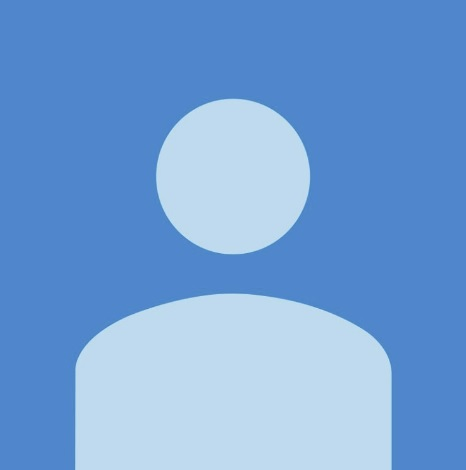
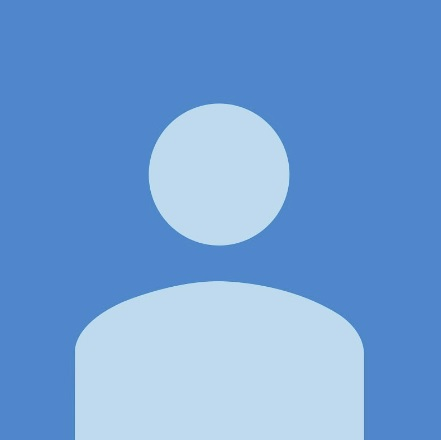
[2023.6.15 18:00] 서수현 마이페이지 사진이 안 보임

diff --git a/GC25 Project/src/main/java/com/gc25/controller/MemberController.java b/GC25 Project/src/main/java/com/gc25/controller/MemberController.java
@@ -276,12 +276,12 @@ public class MemberController extends HttpServlet {
 						session = request.getSession(); // 세션 가져오기
 						session.setMaxInactiveInterval(1800);//30분 세션유지
 						//회원번호 세션에 저장하기 위해 가져오기
-						String memberNumber = memberService.getMemberNumber(memberEmail);
+						int memberNumber = memberService.getMemberNumber(memberEmail);
 						//닉네임, 이메일 세션에 저장하기 위해 가져오기
 						MemberDTO member= memberService.getMember(memberEmail);
 						
 						memberNickname = member.getMemberNickname();
-						memberImageFileName = member.getMemberImageFileName();
+						memberImageFileName = memberService.getMemberImageFileName(memberImageFileName, memberEmail);
 						memberStatus = member.getMemberStatus();
 						
 						//세션에 저장
@@ -433,7 +433,8 @@ public class MemberController extends HttpServlet {
 				}
 				case "/mypage" -> { 
 					
-					PrintWriter script = response.getWriter();
+					int result = 0;
+					
 					PrintWriter out = response.getWriter();
 					String passwordReg = "^(?=.*[A-Za-z])(?=.*\\d)(?=.*[@!%*#?&])[A-Za-z\\d@!%*#?&]{8,12}$";
 					
@@ -444,79 +445,98 @@ public class MemberController extends HttpServlet {
 				    	memberEmail=(String)session.getAttribute("memberEmail");
 				    } else {
 				        // 로그인 되어있지 않은 경우
-						script.println("<script>");
-						script.println("alert('로그인을 해 주세요.')");
-						script.println("location.href='/views/login.jsp';");
-						script.println("</script>");
+				    	result=-100;
+				    	out.print(result);
+						return;
 				    }
 				    
 					//닉네임 중복 확인
-					
 				    session = request.getSession(); // 세션 가져오기
 					session.setMaxInactiveInterval(1800);//30분 세션유지
 				    //nickname 버튼 click 했다면 넘어오는 nicknameOverlapCheck
 					nicknameOverlapCheckParam = request.getParameter("nicknameOverlapCheck");
-					System.out.println("mypage 이메일버튼 on/off 여부: " + nicknameOverlapCheckParam);
+					//System.out.println("mypage 이메일버튼 on/off 여부: " + nicknameOverlapCheckParam);
 					//getparameter는 string 타입이기 때문에 boolean으로 형 변환 click 했다면 true 넘어옴.
 					boolean nicknameOverlapCheck = Boolean.parseBoolean(nicknameOverlapCheckParam);
 					int nicknameCheckSuccess = memberService.nicknameCheck(memberNickname);
 					
-					if(nicknameCheckSuccess==0 || memberNickname=="" || memberNickname==null) {
+					//닉네임 바꾸지 않는다면 -> 중복검사 할 필요 없음.
+					if(memberNickname.equals("") || memberNickname==null) {
 						session.setAttribute("nicknameCheckSuccess", nicknameCheckSuccess);
 						nicknameOverlapCheck=true;
-						int result= 0;
-						out.print(result);
-						return;
+						MemberDTO member= memberService.getMember(memberEmail);
+						memberNickname = member.getMemberNickname();
 					}
 					else {
-						System.out.println("nicknameOverlapCheck???? :" + nicknameOverlapCheck);
-						
 						if(nicknameOverlapCheck){
 							nicknameCheckSuccess = memberService.nicknameCheck(memberNickname);
+							System.out.println("memberNickname: "+memberNickname);
 							System.out.println("nicknameCheckSuccess: "+nicknameCheckSuccess);
+							//중복검사했고 중복되지 않은 닉네임이라면
 							if(nicknameCheckSuccess == 1) {
+								 memberNickname = request.getParameter("memberNickname"); 
 								 session.setAttribute("nicknameCheckSuccess", nicknameCheckSuccess);
 								 session.setAttribute("memberNickname", memberNickname);
-								 int result= 1;
+							} else if (nicknameCheckSuccess == 0){
+								 result= -200;
 								 out.print(result);
 								 return;
-							} 
+							}
+						}else {
+							result= -300;
+							 out.print(result);
+							 return;
 						}
 					}
+					
 					if (memberPwd==null || memberPwd.equals("")|| memberPwd2==null || memberPwd2.equals("")) {
-							 
-						script.println("<script>");
-						script.println("alert('수정을 취소합니다.')");
-						script.println("location.href='/index.jsp';");
-						script.println("</script>");
-									
-					}
+						 result= -400;
+						 out.print(result);
+						 return;		
+					} 
+				
+				//비밀번호 불일치
+				if (!memberPwd.equals(memberPwd2)) {
+					result = -500; 
+					out.print(result);
 					
-					int updateSuccess = memberService.updateMember(memberEmail, memberPwd, memberNickname, memberImageFileName);
+					return;
+				}//비밀번호 정규식에 부합
+				else if (!memberPwd.matches(passwordReg)) {
+					result = -600; 
+					out.print(result);
+					return;
+				}
+				
+				memberImageFileName = memberService.setMemberImageFileName(memberImageFileName, memberEmail);
+				
+				 //비밀번호 받아서 세팅
+			    if(request.getParameter("memberPwd")!=null){
+					memberPwd=request.getParameter("memberPwd");
+					System.out.println("비밀번호 넘어오나? : " +memberPwd);
+					System.out.println("정규식에 맞나??"+memberPwd.matches(passwordReg));
 					
-					if (updateSuccess == 1){
-						out.print(updateSuccess);
-						return;
-					
-					}else if (updateSuccess == 0) {
-						out.print(updateSuccess);
-						return;
-					}
+				//이미지 파일 세팅
+				memberImageFileName = (String) session.getAttribute("fileName");
+				System.out.println(memberImageFileName);
+				
+				session.setAttribute("memberImageFileName", memberImageFileName);
+			
+				int updateSuccess = memberService.updateMember(memberEmail, memberPwd, memberNickname, memberImageFileName);
+				if(updateSuccess==1) {
+					result = 1; 
+					out.print(result);
+					return;
+				}		
+				
 					break;
 				}//case
-				
+				}
 				case "/proflieImgChange" -> {
-					System.out.println("이미지 변경 메소드");
-					
-					String userResponseParam = request.getParameter("userResponse");
-					boolean userResponse = Boolean.parseBoolean(userResponseParam);
-					System.out.println("proflieImgChange넘어왔나???"+userResponse);
-					
-					if(userResponse) {
+				
 					//memberService.getMemberImageFileName(memberImageFileName, memberEmail);
 					//파일 저장할 경로
-					System.out.println("asdasdasdsad");
-					File curPath=new File("C:\\Users\\bko23\\git\\GC25\\GC25 Project\\src\\main\\webapp\\images");
+					File curPath=new File("C:\\Users\\bko23\\git\\GC25\\GC25 Project\\src\\main\\webapp\\images\\");
 //					System.out.println(curPath);
 					//DiskFileItemFactory는 FileItem 객체를 생성하기 위한 팩토리 클래스  
 					//->getSize(), getName(), isFormField 등을 제공 -> 업로드된 파일의 정보(이름, 크기, 타입 등)를 확인하고, 데이터에 접근하여 원하는 처리를 수행 
@@ -552,6 +572,8 @@ public class MemberController extends HttpServlet {
 									File uploadFile = new File(curPath+"\\"+fileName);
 									fileItem.write(uploadFile);
 									System.out.println("파일 이름 : " + fileName);
+									session.setAttribute("fileName", fileName);
+									
 									}
 								}//if	
 							
@@ -560,9 +582,26 @@ public class MemberController extends HttpServlet {
 					catch(Exception ex) {
 					ex.printStackTrace();
 					}
-				}//if
+				
 				}//case
-		
+				case "/proflieImgRemove" -> {
+					String userResponseParam = request.getParameter("userResponse");
+					boolean userResponse = Boolean.parseBoolean(userResponseParam);
+					
+					if(userResponse) {
+						memberImageFileName = memberService.getMemberImageFileName(memberImageFileName, memberEmail);
+						 String filePath = "C:\\Users\\bko23\\git\\GC25\\GC25 Project\\src\\main\\webapp\\images\\"+memberImageFileName;
+					     File file = new File(filePath);
+					      
+					     if (file.delete()) {
+					        System.out.println("이미지가 삭제되었습니다.");
+					        
+					     } else {
+					        System.out.println("이미지 삭제를 실패했습니다.");
+					     }
+					}
+				}//case
+				
 			}//switch
 			
 		

diff --git a/GC25 Project/src/main/java/com/gc25/dao/MemberDAO.java b/GC25 Project/src/main/java/com/gc25/dao/MemberDAO.java
@@ -163,7 +163,7 @@ public class MemberDAO {
 	
 
 	
-	public String getMemberImageFileName(String memberImageFileName, String memberEmail) {
+	public String getMemberImageFileName(String memberEmail) {
 		try {
 			con = ds.getConnection();
 			
@@ -176,15 +176,20 @@ public class MemberDAO {
 			System.out.println(query);
 			
 			pstmt.setString(1, memberEmail);
-			System.out.println(memberEmail);
+			System.out.println("dao memberemail : "+memberEmail);
 			rs = pstmt.executeQuery();
 			
 			//같은 이름의 email 찾아서 반환
 			if (rs.next()){
-				if(rs.getString("memberImageFileName").equals("")) {
-					return "/images/profile.jpg";
+				String memberImageFileName = rs.getString("m_imagefilename");
+				if(memberImageFileName.equals("") || memberImageFileName==null) {
+					return "profile.jpg";
 				}
-			}	return "http://localhost:8080/images/"+rs.getShort("memberImageFileName");
+				else {
+					return rs.getString("m_imagefilename");
+				}
+			}
+//			}	return rs.getString("memberImageFileName");
 	
 		}catch(Exception ex) {
 			ex.printStackTrace();
@@ -196,7 +201,7 @@ public class MemberDAO {
 				ex.printStackTrace();
 			}
 		}
-		return "http://localhost:8080/images/profile.jpg"; //오류발생시 null값 반환
+		return "profile.jpg"; //오류발생시 null값 반환
 	}
 	
 	public String setMemberImageFileName(String memberImageFileName, String memberEmail) {
@@ -215,10 +220,11 @@ public class MemberDAO {
 			pstmt.setString(2, memberEmail);
 			System.out.println(memberEmail);
 			
-			pstmt.executeUpdate();
+			int updateCount = pstmt.executeUpdate();
+
 			
 			//같은 이름의 email 찾아서 반환
-			if (rs.next()){
+			if (updateCount > 0){
 				return memberImageFileName;
 			}
 	
@@ -390,7 +396,7 @@ public class MemberDAO {
 			return -1;
 		}
 		
-		public String getMemberNumber(String memberEmail) {
+		public int getMemberNumber(String memberEmail) {
 			try {
 				//connection 하나 가져오기
 				con = ds.getConnection();
@@ -406,7 +412,7 @@ public class MemberDAO {
 				rs = pstmt.executeQuery();
 				
 				if (rs.next()) {
-					 String memberNumber = rs.getString(1);
+					 int memberNumber = rs.getInt(1);
 		            return memberNumber;
 		        }
 				
@@ -420,7 +426,8 @@ public class MemberDAO {
 					ex.printStackTrace();
 				}
 			}
-			return null;
+			
+			return 0;
 		}
 		
 }

diff --git a/GC25 Project/src/main/java/com/gc25/dto/MemberDTO.java b/GC25 Project/src/main/java/com/gc25/dto/MemberDTO.java
@@ -6,7 +6,8 @@ public class MemberDTO {
 	private String memberNickname;
 	private int memberStatus;
 	private String memberImageFileName;
-	private String memberNumber;
+	private int memberNumber;
+	
 	
 	public MemberDTO() {
 		
@@ -57,7 +58,7 @@ public class MemberDTO {
 	}
 
 	public String getMemberImageFileName() {
-		String memberImageFileName = "/profile.jpg";
+		String memberImageFileName = "profile.jpg";
 		return memberImageFileName;
 	}
 
@@ -65,14 +66,13 @@ public class MemberDTO {
 		this.memberImageFileName = memberImageFileName;
 	}
 
-	public String getMemberNumber() {
+	public int getMemberNumber() {
 		return memberNumber;
 	}
 
-	public void setMemberNumber(String memberNumber) {
+	public void setMemberNumber(int memberNumber) {
 		this.memberNumber = memberNumber;
 	}
-	
 	
 	
 	

diff --git a/GC25 Project/src/main/java/com/gc25/service/MemberService.java b/GC25 Project/src/main/java/com/gc25/service/MemberService.java
@@ -42,7 +42,7 @@ public class MemberService {
 	
 	public String getMemberImageFileName(String memberImageFileName, String memberEmail) {
 		
-		String result = memberDAO.getMemberImageFileName(memberImageFileName, memberEmail);
+		String result = memberDAO.getMemberImageFileName(memberEmail);
 		
 		return result;
 	}
@@ -74,9 +74,9 @@ public class MemberService {
 		return result;
 	}
 	
-	public String getMemberNumber(String memberEmail) {
+	public int getMemberNumber(String memberEmail) {
 		
-		String result=memberDAO.getMemberNumber(memberEmail);
+		int result=memberDAO.getMemberNumber(memberEmail);
 		
 		return result;
 	}
